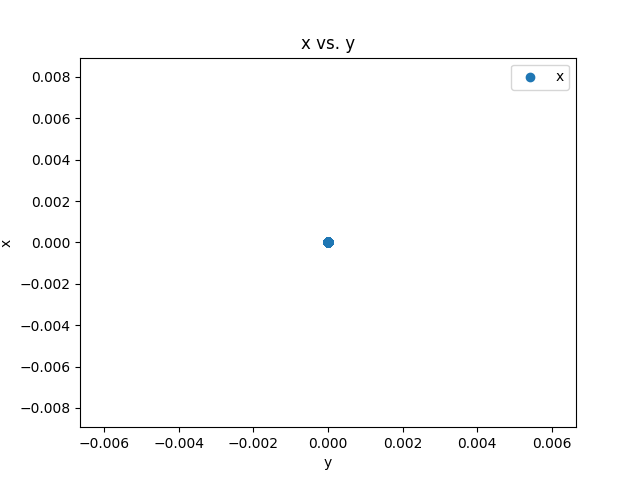
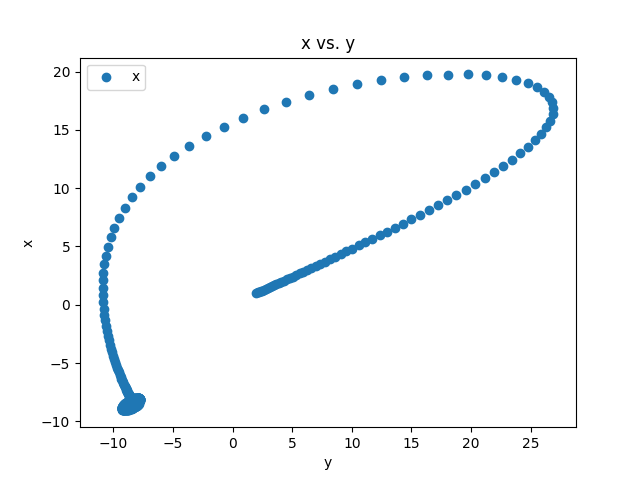
Commit de p3 con graficas y cambiando valores iniciales

diff --git a/ejercicio5.py b/ejercicio5.py
@@ -33,9 +33,9 @@ def avan(r):
     rt[2]=rt[2]+(dt*dz)
     return rt
 
-x=[0.0]
-y=[0.0]
-z=[0.0]
+x=[1.0]
+y=[2.0]
+z=[3.0]
 rt=[x[0],y[0],z[0]]
 
 for i in range(int(n)):
